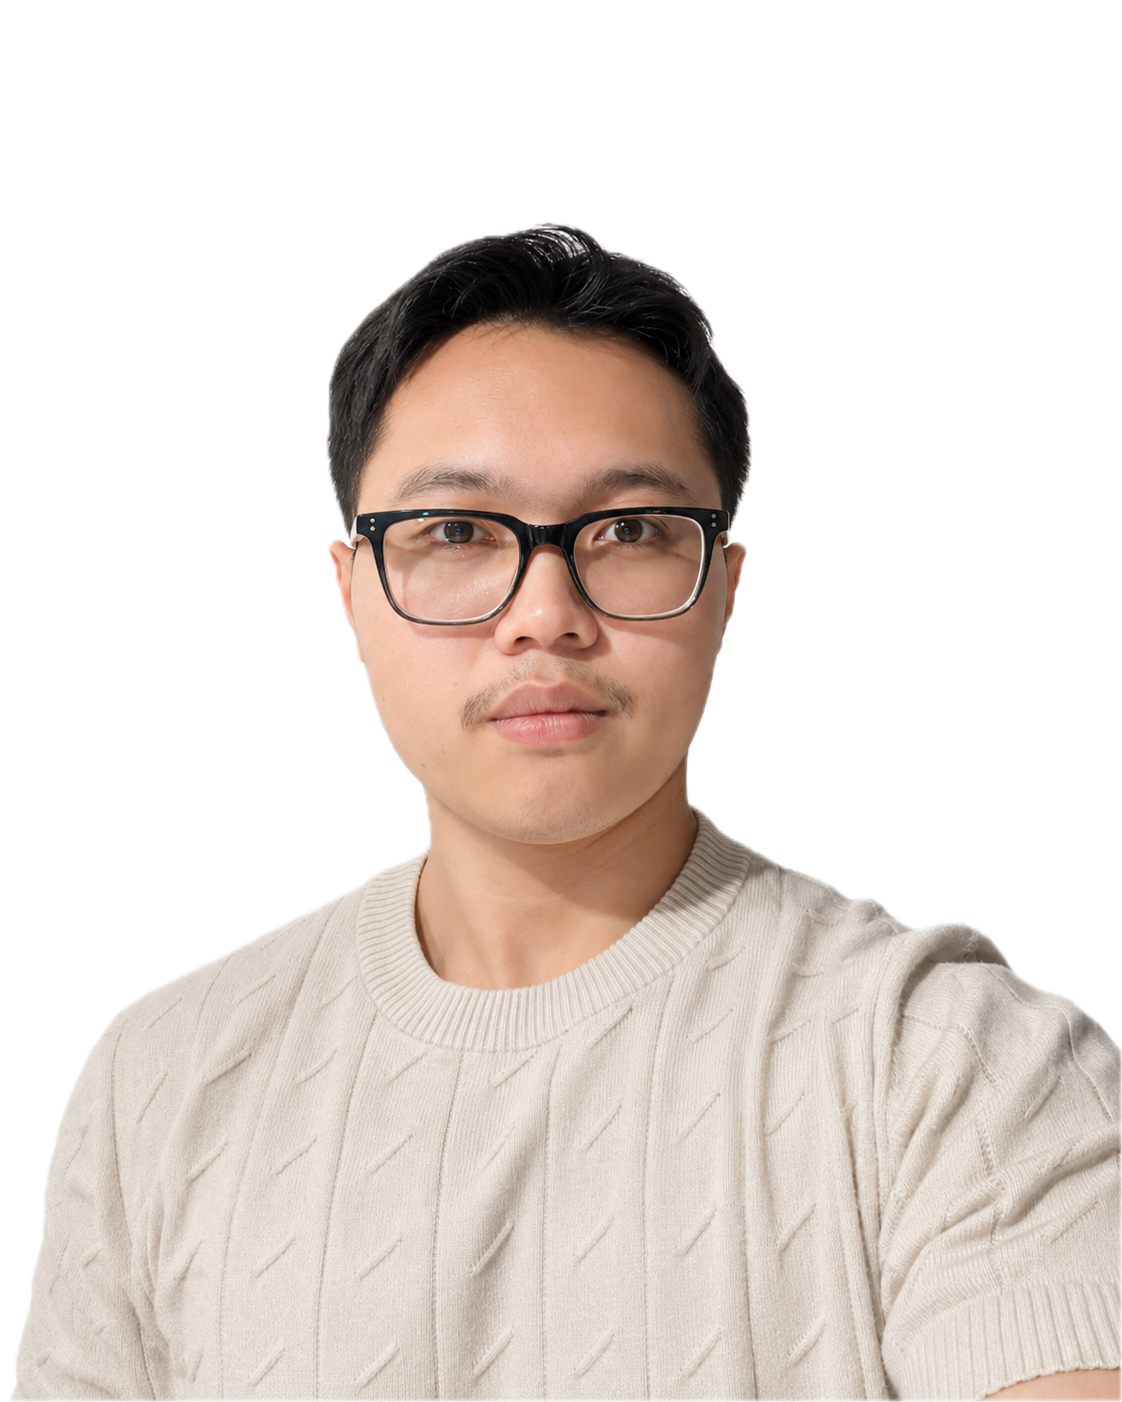
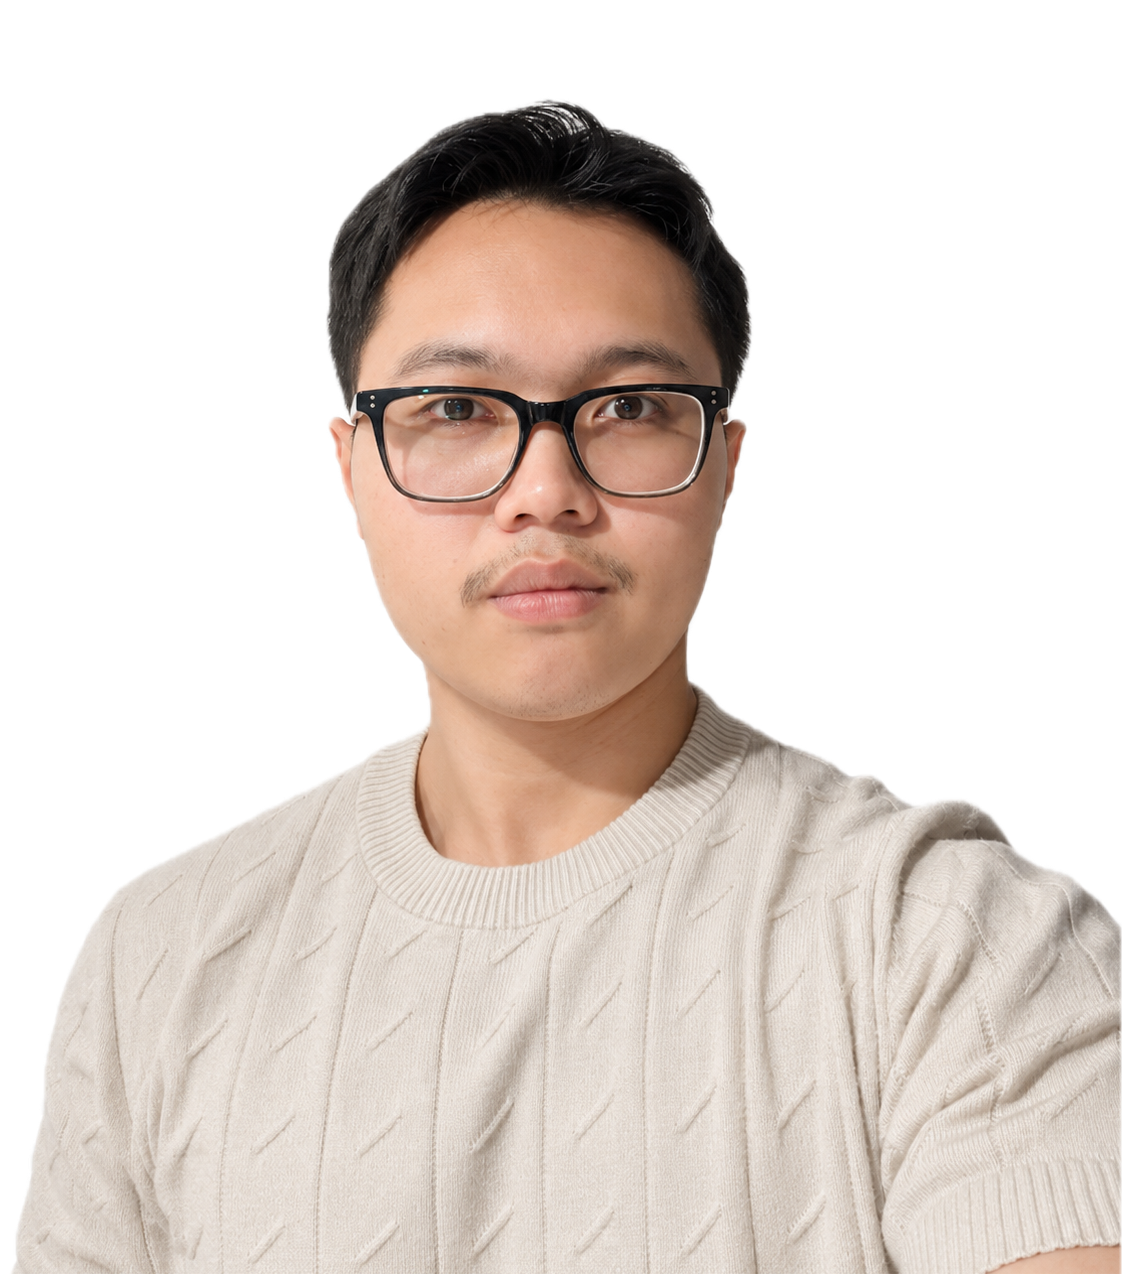
refined about page

diff --git a/src/components/sections/about/AboutStory.tsx b/src/components/sections/about/AboutStory.tsx
@@ -2,6 +2,9 @@ import Image from "next/image";
 import {
   BriefcaseBusiness,
   CheckCircle2,
+  GraduationCap,
+  MapPin,
+  Sparkles,
 } from "lucide-react";
 import Reveal from "@/components/ui/Reveal";
 
@@ -34,7 +37,7 @@ const educationCards = [
     logo: {
       src: "/images/mascot/UTSC-logo.png",
       alt: "UTS College logo",
-      width: 7257,
+      width: 3854,
       height: 1529,
     },
   },
@@ -55,19 +58,22 @@ const hospitalitySkills = [
 
 function ProfilePhotoCard() {
   return (
-    <article className="relative overflow-hidden rounded-[20px] border border-white/75 bg-white/60 p-4 shadow-[0_24px_70px_rgba(45,95,157,0.12)] backdrop-blur-xl">
-      <div className="pointer-events-none absolute inset-[1px] rounded-[19px] bg-[linear-gradient(145deg,rgba(255,255,255,0.9),rgba(238,245,255,0.42)_48%,rgba(231,222,255,0.22))]" />
+    <article className="relative overflow-hidden rounded-[22px] border border-white/75 bg-white/64 p-3.5 shadow-[0_24px_70px_rgba(45,95,157,0.12)] backdrop-blur-xl sm:p-4">
+      <div className="pointer-events-none absolute inset-[1px] rounded-[21px] bg-[linear-gradient(145deg,rgba(255,255,255,0.92),rgba(238,245,255,0.46)_46%,rgba(231,222,255,0.24))]" />
       <div className="pointer-events-none absolute inset-x-10 top-0 h-px bg-gradient-to-r from-transparent via-white to-transparent" />
 
       <div className="relative z-10">
-        <div className="mb-4 flex items-center justify-between gap-3">
+        <div className="mb-3 flex items-center justify-between gap-3 px-1">
           <p className="font-mono text-[0.63rem] font-bold uppercase tracking-[0.18em] text-[#2d5f9d]/72">
             profile.photo
           </p>
+          <span className="rounded-full border border-[#d4e3ff]/70 bg-white/74 px-2.5 py-1 font-mono text-[0.55rem] font-bold uppercase tracking-[0.11em] text-slate-500">
+            Sydney
+          </span>
         </div>
 
-        <div className="relative flex min-h-[22rem] items-end justify-center overflow-hidden rounded-[16px] border border-[#d4e3ff]/46 bg-[#f8fbff]/42 px-6 pt-7 sm:min-h-[23.5rem] lg:min-h-[25rem]">
-          <div className="pointer-events-none absolute bottom-5 left-1/2 h-[19rem] w-[84%] -translate-x-1/2 rounded-[999px] bg-[radial-gradient(ellipse_at_center,rgba(141,187,255,0.42),rgba(198,183,255,0.24)_48%,rgba(255,255,255,0.12)_70%,transparent_76%)]" />
+        <div className="relative aspect-[4/5] overflow-hidden rounded-[18px] border border-[#d4e3ff]/52 bg-[linear-gradient(180deg,rgba(248,251,255,0.78),rgba(231,222,255,0.24))]">
+          <div className="pointer-events-none absolute inset-0 bg-[radial-gradient(ellipse_at_50%_24%,rgba(255,255,255,0.78),transparent_34%),radial-gradient(ellipse_at_52%_62%,rgba(141,187,255,0.34),rgba(198,183,255,0.18)_46%,transparent_72%)]" />
           <div className="pointer-events-none absolute bottom-0 left-1/2 h-24 w-9/12 -translate-x-1/2 rounded-full bg-white/36 blur-xl" />
           <div className="pointer-events-none absolute bottom-3 left-1/2 h-20 w-8/12 -translate-x-1/2 rounded-full bg-slate-900/8 blur-2xl" />
 
@@ -76,17 +82,65 @@ function ProfilePhotoCard() {
             alt="Yafie profile photo"
             width={1122}
             height={1402}
-            sizes="(min-width: 1024px) 32vw, 92vw"
+            sizes="(min-width: 1024px) 34vw, 92vw"
             priority={false}
-            className="relative z-10 h-auto max-h-[24rem] w-auto max-w-[82%] translate-x-[-0.35rem] object-contain object-bottom drop-shadow-[0_28px_30px_rgba(15,23,42,0.16)] sm:max-w-[74%] lg:max-h-[25.5rem] lg:max-w-[88%]"
+            className="absolute left-1/2 top-1/2 z-10 h-auto w-[106%] max-w-none -translate-x-[51%] -translate-y-[43%] object-contain drop-shadow-[0_28px_30px_rgba(15,23,42,0.16)] sm:w-[102%] sm:-translate-y-[42%] lg:w-[110%] lg:-translate-y-[44%] xl:w-[104%]"
           />
         </div>
 
-        <div className="mt-4 flex flex-wrap gap-2.5">
+        <div className="mt-3 rounded-[16px] border border-white/72 bg-white/72 p-3 shadow-[0_14px_34px_rgba(45,95,157,0.09)] backdrop-blur-xl">
+          <div className="flex flex-col gap-2 sm:flex-row sm:items-center sm:justify-between">
+            <div>
+              <p className="text-base font-extrabold tracking-tight text-slate-950">
+                Yafie Farabi
+              </p>
+              <p className="mt-1 text-xs font-semibold leading-5 text-slate-600">
+                Software Engineering Student
+              </p>
+            </div>
+            <div className="grid gap-1.5 text-xs font-semibold leading-5 text-slate-600">
+              <p className="flex items-center gap-2">
+                <GraduationCap
+                  size={14}
+                  strokeWidth={2.2}
+                  aria-hidden
+                  className="shrink-0 text-[#2d5f9d]"
+                />
+                Product-minded builder
+              </p>
+              <p className="flex items-center gap-2">
+                <MapPin
+                  size={14}
+                  strokeWidth={2.2}
+                  aria-hidden
+                  className="shrink-0 text-[#2d5f9d]"
+                />
+                Sydney, Australia
+              </p>
+            </div>
+          </div>
+        </div>
+
+        <div className="mt-3 rounded-[16px] border border-[#d4e3ff]/62 bg-white/58 p-3">
+          <div className="flex items-start gap-2 text-sm leading-6 text-slate-600">
+            <Sparkles
+              size={16}
+              strokeWidth={2.2}
+              aria-hidden
+              className="mt-0.5 shrink-0 text-[#2d5f9d]"
+            />
+            <p>
+              Software engineering, product thinking, and testing-focused
+              project work.
+            </p>
+          </div>
+        </div>
+
+        <div className="mt-3 flex flex-wrap gap-2">
           {profileTags.map((label) => (
             <p
               key={label}
-              className="rounded-full border border-[#d4e3ff]/68 bg-white/68 px-3 py-2 font-mono text-[0.56rem] font-bold uppercase tracking-[0.12em] text-slate-500 shadow-[0_8px_22px_rgba(45,95,157,0.055)]"
+              className="rounded-full border border-[#d4e3ff]/68 bg-white/70 px-2.5 py-1.5 font-mono text-[0.54rem] font-bold uppercase tracking-[0.1em] text-slate-500 shadow-[0_8px_22px_rgba(45,95,157,0.055)]"
             >
               {label}
             </p>
@@ -116,72 +170,76 @@ export default function AboutStory() {
       </Reveal>
 
       <div className="grid gap-5 lg:grid-cols-12 lg:items-start">
-        <Reveal className="lg:col-span-4">
+        <Reveal className="lg:col-span-4 xl:col-span-4">
           <ProfilePhotoCard />
         </Reveal>
 
-        <div className="grid gap-4 lg:col-span-8">
+        <div className="grid gap-4 lg:col-span-8 xl:col-span-8">
           <Reveal delay={0.04}>
-            <article className="relative overflow-hidden rounded-[18px] border border-white/75 bg-white/64 p-5 shadow-[0_22px_72px_rgba(45,95,157,0.1)] backdrop-blur-xl md:p-7">
-              <div className="pointer-events-none absolute inset-y-6 left-4 w-px rounded-full bg-gradient-to-b from-[#8dbbff] via-[#c6b7ff] to-transparent" />
-              <div className="relative z-10 grid gap-6 xl:grid-cols-[minmax(0,0.72fr)_minmax(14rem,0.28fr)] xl:items-start">
-                <div className="pl-3">
-                  <p className="font-mono text-[0.66rem] font-bold uppercase tracking-[0.18em] text-[#2d5f9d]/72">
-                    profile.summary
-                  </p>
-                  <h3 className="mt-3 max-w-3xl text-2xl font-extrabold leading-tight tracking-tight text-slate-950 md:text-[2rem]">
-                    Software engineering student building practical,
-                    product-minded systems.
-                  </h3>
-                  <div className="mt-5 grid gap-4 text-base leading-8 text-slate-600">
-                    <p>
-                      I&apos;m studying software engineering and building
-                      hands-on projects across web applications, mobile
-                      interfaces, backend logic, cloud deployment, and
-                      AI-assisted workflows. I use projects to connect technical
-                      concepts with real user needs, product decisions, and
-                      maintainable implementation.
+            <article className="relative overflow-hidden rounded-[20px] border border-white/75 bg-white/66 p-5 shadow-[0_22px_72px_rgba(45,95,157,0.1)] backdrop-blur-xl md:p-7">
+              <div className="pointer-events-none absolute inset-0 bg-[radial-gradient(circle_at_88%_12%,rgba(198,183,255,0.16),transparent_32%),radial-gradient(circle_at_12%_88%,rgba(141,187,255,0.12),transparent_36%)]" />
+              <div className="relative z-10">
+                <div className="flex flex-col gap-4 xl:flex-row xl:items-start xl:justify-between">
+                  <div className="max-w-3xl">
+                    <p className="font-mono text-[0.66rem] font-bold uppercase tracking-[0.18em] text-[#2d5f9d]/72">
+                      profile.summary
                     </p>
-                    <p>
-                      My goal is to grow into a software engineer who can
-                      contribute across the software lifecycle &mdash;
-                      understanding requirements, building usable interfaces,
-                      designing reliable logic, testing important flows, and
-                      communicating clearly with a team.
-                    </p>
+                    <h3 className="mt-3 text-2xl font-extrabold leading-tight tracking-tight text-slate-950 md:text-[2rem]">
+                      Software engineering student building practical,
+                      product-minded systems.
+                    </h3>
+                  </div>
+
+                  <div className="grid gap-2 sm:grid-cols-3 xl:w-[25rem] xl:shrink-0">
+                    {[
+                      "software engineering student",
+                      "practical project builder",
+                      "web · mobile · backend",
+                    ].map((item) => (
+                      <div
+                        key={item}
+                        className="flex min-h-12 items-center gap-2 rounded-[12px] border border-[#d4e3ff]/62 bg-[#f8fbff]/72 px-3 py-2 text-xs font-bold leading-5 text-slate-700"
+                      >
+                        <CheckCircle2
+                          size={15}
+                          strokeWidth={2.3}
+                          aria-hidden
+                          className="shrink-0 text-[#2d5f9d]"
+                        />
+                        <span>{item}</span>
+                      </div>
+                    ))}
                   </div>
                 </div>
 
-                <div className="grid gap-2 rounded-[14px] border border-[#d4e3ff]/62 bg-[#f8fbff]/66 p-3">
-                  {[
-                    "software engineering student",
-                    "practical project builder",
-                    "web · mobile · backend",
-                  ].map((item) => (
-                    <div
-                      key={item}
-                      className="flex items-center gap-2 rounded-[10px] bg-white/64 px-3 py-2 text-sm font-bold text-slate-700"
-                    >
-                      <CheckCircle2
-                        size={15}
-                        strokeWidth={2.3}
-                        aria-hidden
-                        className="shrink-0 text-[#2d5f9d]"
-                      />
-                      <span>{item}</span>
-                    </div>
-                  ))}
+                <div className="mt-5 grid gap-4 border-t border-[#d4e3ff]/58 pt-5 text-base leading-8 text-slate-600">
+                  <p>
+                    I&apos;m studying software engineering and building
+                    hands-on projects across web applications, mobile
+                    interfaces, backend logic, cloud deployment, and AI-assisted
+                    workflows. I use projects to connect technical concepts
+                    with real user needs, product decisions, and maintainable
+                    implementation.
+                  </p>
+                  <p>
+                    My goal is to grow into a software engineer who can
+                    contribute across the software lifecycle &mdash;
+                    understanding requirements, building usable interfaces,
+                    designing reliable logic, testing important flows, and
+                    communicating clearly with a team.
+                  </p>
                 </div>
               </div>
             </article>
           </Reveal>
 
-          <div className="grid gap-4 xl:grid-cols-[minmax(0,0.68fr)_minmax(16rem,0.32fr)]">
+          <div className="grid gap-4 xl:grid-cols-[minmax(0,0.7fr)_minmax(15rem,0.3fr)]">
             <div className="relative grid gap-3">
               {educationCards.map((card, index) => (
                 <Reveal key={card.institution} delay={index * 0.06}>
-                  <article className="group relative overflow-hidden rounded-[16px] border border-white/75 bg-white/68 p-5 shadow-[0_18px_55px_rgba(45,95,157,0.08)] backdrop-blur-xl transition-[border-color,box-shadow,background-color,transform] duration-300 hover:-translate-y-1 hover:border-[#8dbbff]/55 hover:bg-white/90 hover:shadow-[0_24px_70px_rgba(45,95,157,0.13)]">
-                    <div className="flex items-start gap-4">
+                  <article className="group relative overflow-hidden rounded-[18px] border border-white/75 bg-white/70 p-5 shadow-[0_18px_55px_rgba(45,95,157,0.08)] backdrop-blur-xl transition-[border-color,box-shadow,background-color,transform] duration-300 hover:-translate-y-1 hover:border-[#8dbbff]/55 hover:bg-white/90 hover:shadow-[0_24px_70px_rgba(45,95,157,0.13)]">
+                    <div className="pointer-events-none absolute inset-0 bg-[radial-gradient(circle_at_92%_12%,rgba(141,187,255,0.1),transparent_28%)]" />
+                    <div className="relative z-10 flex items-start gap-4">
                       <span className="relative z-10 flex h-14 w-14 shrink-0 items-center justify-center rounded-[14px] border border-[#8dbbff]/18 bg-white/82 p-2 shadow-[0_12px_26px_rgba(45,95,157,0.09)] transition-transform duration-300 group-hover:-translate-y-0.5">
                         <Image
                           src={card.logo.src}
@@ -221,6 +279,7 @@ export default function AboutStory() {
 
             <Reveal delay={0.08}>
               <article className="relative h-full overflow-hidden rounded-[15px] border border-[#d4e3ff]/68 bg-white/54 p-5 shadow-[0_14px_42px_rgba(45,95,157,0.07)] backdrop-blur-xl">
+                <div className="pointer-events-none absolute inset-0 bg-[radial-gradient(circle_at_88%_14%,rgba(198,183,255,0.14),transparent_32%)]" />
                 <div className="relative z-10 flex items-start gap-4 xl:block">
                   <span className="flex h-10 w-10 shrink-0 items-center justify-center rounded-[12px] border border-[#8dbbff]/20 bg-[#eef5ff]/68 text-[#2d5f9d] xl:mb-4">
                     <BriefcaseBusiness